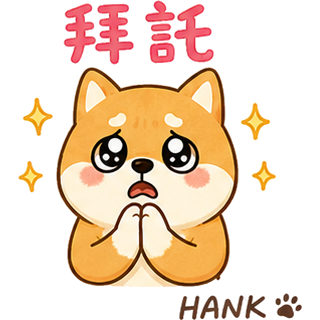
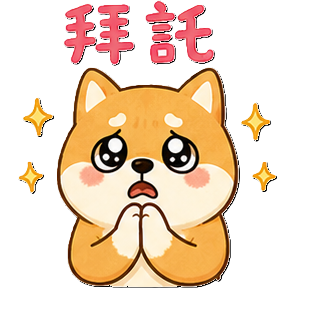
release public assets 2026.05.28.008

diff --git a/releases/2026.05.28.008/report.md b/releases/2026.05.28.008/report.md
@@ -1,0 +1,49 @@
+# HW AI Studio LINE 素材發布報告
+
+版本：2026.05.28.008  
+標題：素材發布  
+發布時間：2026-05-28T13:04:38.461495+08:00  
+狀態：published_local  
+
+## 統計
+
+- 素材包數量：4
+- 素材數量：16
+
+## 新增素材包
+
+- 無
+
+## 修改素材包
+
+- 無
+
+## 新增素材
+
+- 無
+
+## 修改素材
+
+- dog_16
+
+## 移除或缺失素材
+
+- 無
+
+## 檢查結果
+
+- 結果：passed
+- 錯誤數：0
+- 警告數：0
+
+### 錯誤
+
+- 無
+
+### 警告
+
+- 無
+
+## 備註
+
+此版本由管理端本機產生，尚未自動推送 GitHub。正式發布前仍需確認 public_dist 只包含可公開素材。

diff --git a/README.md b/README.md
@@ -1,6 +1,6 @@
 # HW AI Studio LINE Public Assets
 
-此資料夾由管理端產生，只包含可公開發布素材。
+此資料夾由 v0.8.3 管理端產生，只包含可公開發布素材。
 
 安全規則：不要手動加入 draft、archive、private、secret、token、source、psd。
-主程式應讀取 manifest.json 作為入口。
+使用者端應讀取 manifest.json 作為入口。